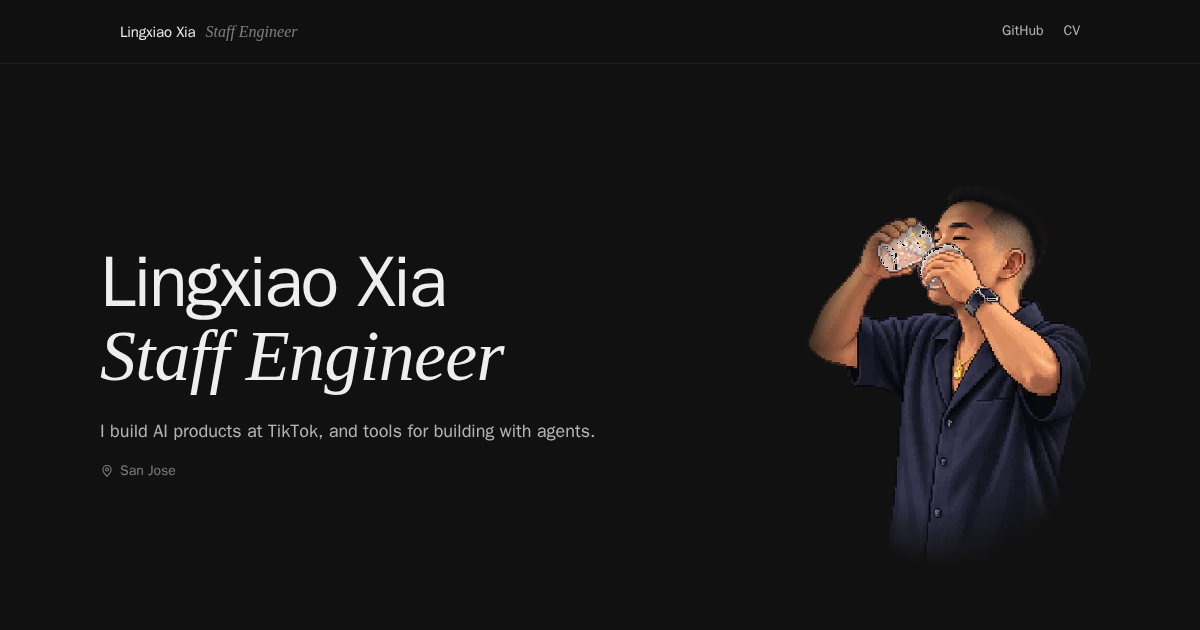
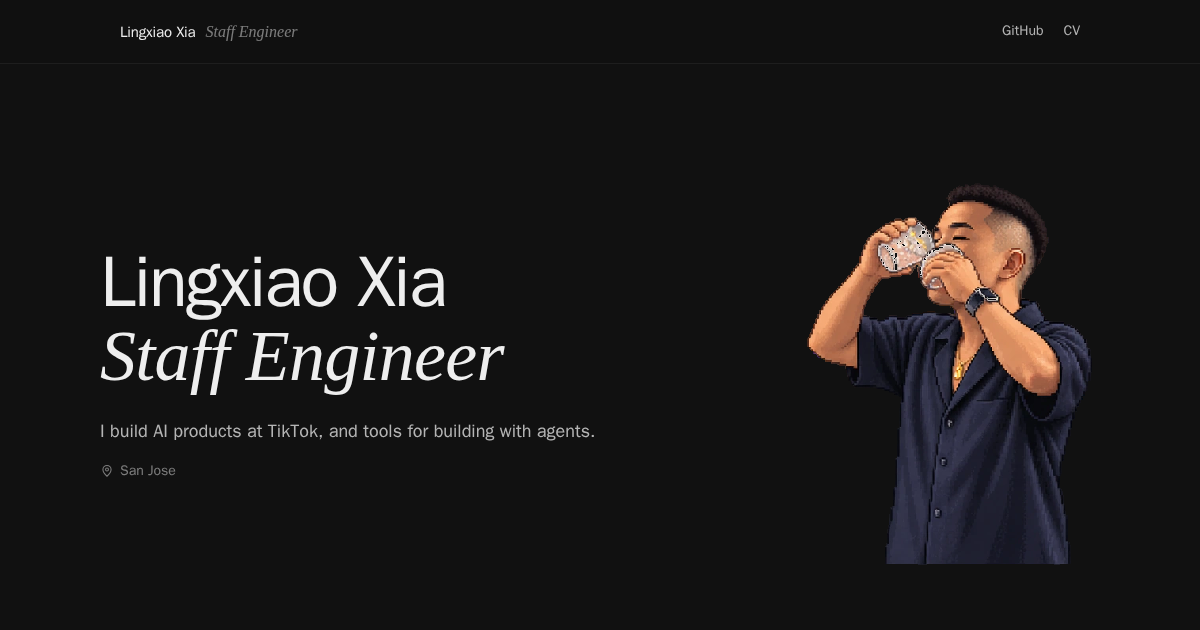
Hero pixel: drop the edge fade

Changed region(s): [[0.6475, 0.3016, 0.8633, 0.573], [0.74, 0.754, 0.8942, 0.9048], [0.8942, 0.5127, 0.925, 0.6032]]

diff --git a/index.html b/index.html
@@ -40,8 +40,7 @@
   .hero h1 .serif { font-weight: 400; letter-spacing: -.01em; }
   .hero p { margin: 0 0 14px; max-width: 34em; font-size: 18px; color: #ffffffb0; }
   .hero .where { display: flex; align-items: center; gap: 6px; font-size: 14px; color: #ffffff73; }
-  .pixel { width: 100%; height: auto; aspect-ratio: 379 / 499; image-rendering: pixelated;
-    mask-image: radial-gradient(ellipse 50% 50% at 50% 50%, #000 70%, transparent 100%); -webkit-mask-image: radial-gradient(ellipse 50% 50% at 50% 50%, #000 70%, transparent 100%); }
+  .pixel { width: 100%; height: auto; aspect-ratio: 379 / 499; border-radius: 20px; image-rendering: pixelated; }
 
   .label { margin: 0 0 8px; font-size: 13px; letter-spacing: .08em; text-transform: uppercase; color: #ffffff73; }
   .projects { list-style: none; margin: 0 0 96px; padding: 0; border-top: 1px solid #ffffff14; }
